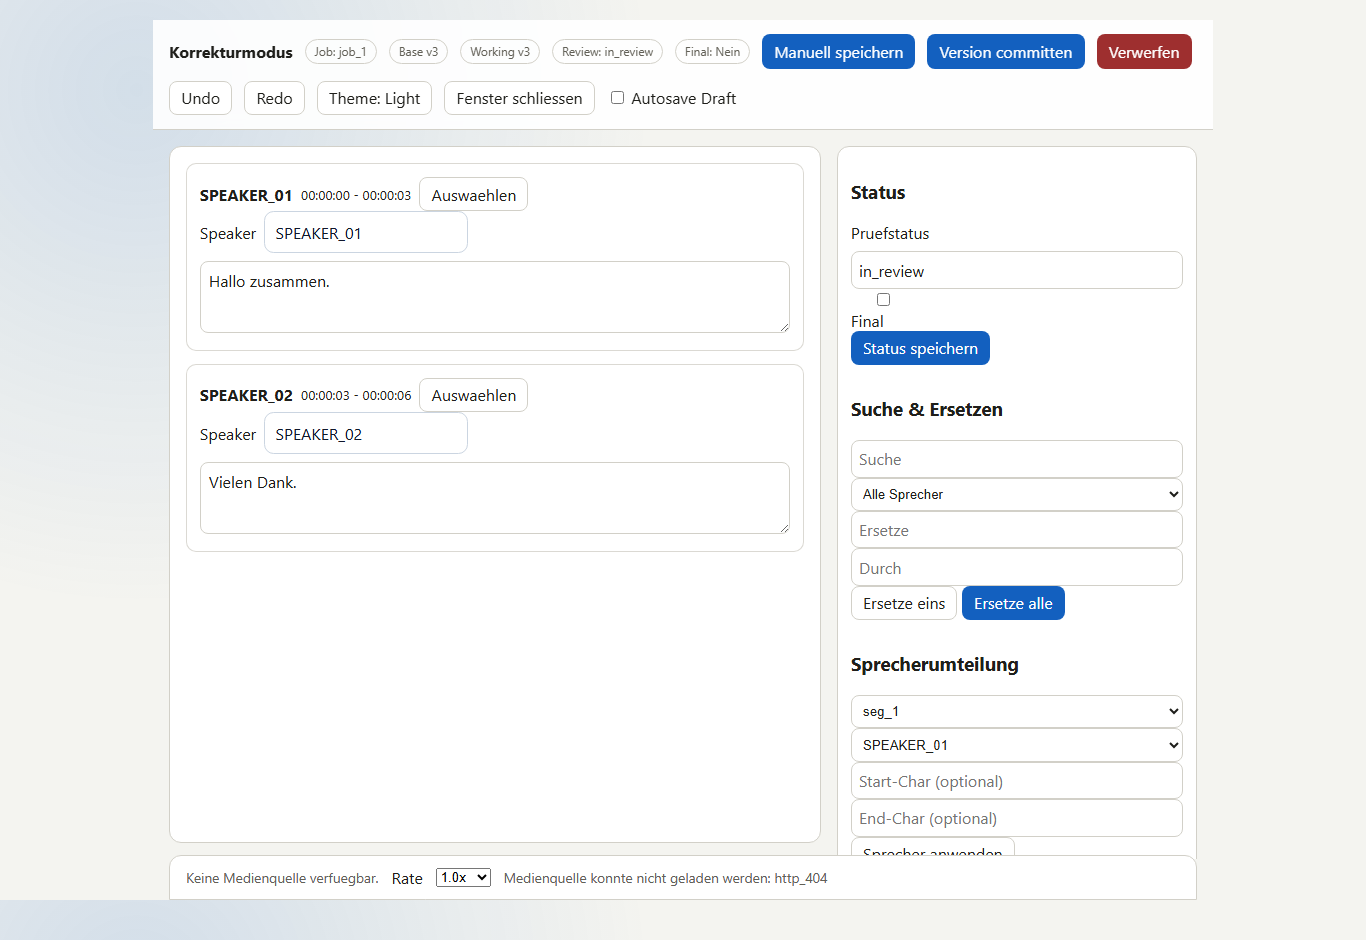
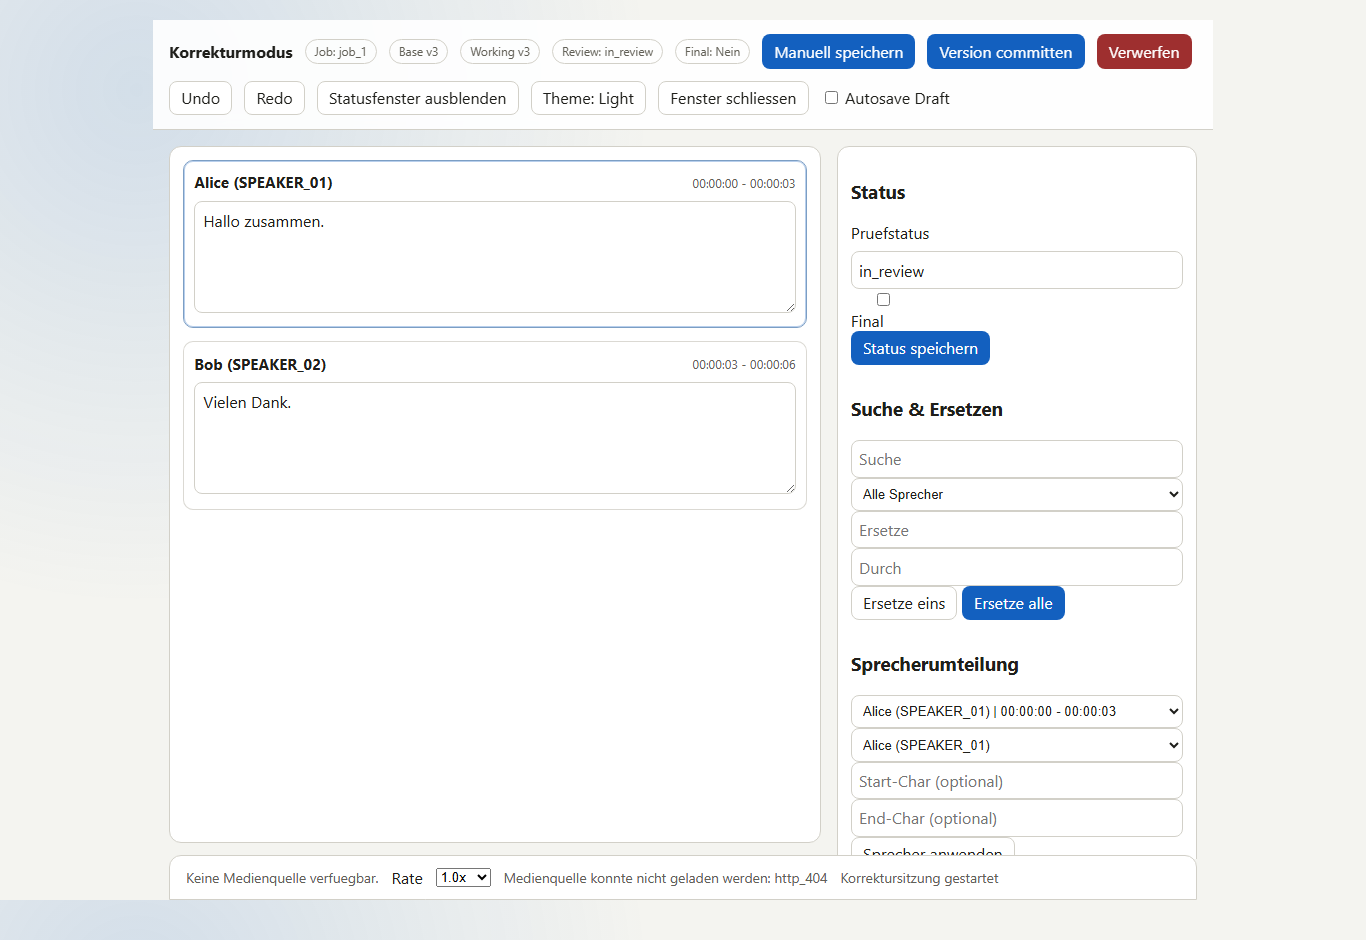
feat: optimiere korrektur-editor layout und alias-anzeige

diff --git a/frontend/correction_workspace.js b/frontend/correction_workspace.js
@@ -7,8 +7,14 @@ import {
   normalizeSegments,
 } from './correction_utils.js';
 import { consumeCorrectionHandoff } from './correction_handoff.js';
+import {
+  buildSpeakerDisplayLabel,
+  buildSpeakerOptionEntries,
+  parseSidebarVisibility,
+} from './correction_workspace_viewmodel.js';
 
 const THEME_STORAGE_KEY = 'evodox-theme';
+const SIDEBAR_VISIBILITY_STORAGE_KEY = 'evodox-correction-sidebar-visible';
 
 const state = {
   token: '',
@@ -36,6 +42,7 @@ const state = {
   closePromptVisible: false,
   mediaSource: null,
   mediaLoadError: '',
+  sidebarVisible: loadPersistedSidebarVisibility(),
 };
 
 function getBootstrap() {
@@ -72,10 +79,10 @@ async function callApi(path, options = {}) {
 
 function setStatus(message) {
   state.statusMessage = message;
-  const node = document.getElementById('cw-status-message');
-  if (node) {
-    node.textContent = message;
-  }
+  const sidebarNode = document.getElementById('cw-status-message');
+  if (sidebarNode) sidebarNode.textContent = message;
+  const footerNode = document.getElementById('cw-global-status');
+  if (footerNode) footerNode.textContent = message;
 }
 
 function setTheme(theme) {
@@ -83,6 +90,22 @@ function setTheme(theme) {
   document.body.dataset.theme = resolved;
   try {
     localStorage.setItem(THEME_STORAGE_KEY, resolved);
+  } catch {
+    // ignore persistence errors
+  }
+}
+
+function loadPersistedSidebarVisibility() {
+  try {
+    return parseSidebarVisibility(localStorage.getItem(SIDEBAR_VISIBILITY_STORAGE_KEY));
+  } catch {
+    return true;
+  }
+}
+
+function persistSidebarVisibility(visible) {
+  try {
+    localStorage.setItem(SIDEBAR_VISIBILITY_STORAGE_KEY, visible ? '1' : '0');
   } catch {
     // ignore persistence errors
   }
@@ -101,10 +124,10 @@ function getMediaElement() {
 }
 
 function getSpeakerOptions() {
-  const values = new Set();
-  state.segments.forEach((segment) => values.add(String(segment.speaker ?? 'UNKNOWN')));
-  Object.keys(state.speakerLabels || {}).forEach((speaker) => values.add(speaker));
-  return [...values];
+  return buildSpeakerOptionEntries({
+    segments: state.segments,
+    speakerLabels: state.speakerLabels,
+  });
 }
 
 function renderOperationLog() {
@@ -127,17 +150,17 @@ function escapeHtml(value) {
 function renderEditorBlocks() {
   return state.segments.map((segment, index) => {
     const activeClass = index === state.activeSegmentIndex ? 'active' : '';
+    const selectedClass = String(segment.segment_id) === String(state.selectedSegmentId) ? 'selected' : '';
+    const speakerLabel = buildSpeakerDisplayLabel({
+      speakerKey: segment.speaker,
+      speakerLabels: state.speakerLabels,
+    });
     return `
-      <article class="cw-block ${activeClass}" data-segment-id="${escapeHtml(segment.segment_id)}">
-        <div class="cw-row">
-          <strong>${escapeHtml(segment.speaker)}</strong>
-          <small>${escapeHtml(formatTimestamp(segment.start))} - ${escapeHtml(formatTimestamp(segment.end))}</small>
-          <button type="button" data-select-segment="${escapeHtml(segment.segment_id)}">Auswaehlen</button>
-        </div>
-        <div class="cw-row">
-          <label>Speaker</label>
-          <input data-speaker-input="${escapeHtml(segment.segment_id)}" value="${escapeHtml(segment.speaker)}" />
-        </div>
+      <article class="cw-block ${activeClass} ${selectedClass}" data-segment-id="${escapeHtml(segment.segment_id)}">
+        <header class="cw-block-header">
+          <strong class="cw-block-speaker">${escapeHtml(speakerLabel)}</strong>
+          <small class="cw-block-time">${escapeHtml(formatTimestamp(segment.start))} - ${escapeHtml(formatTimestamp(segment.end))}</small>
+        </header>
         <textarea data-text-input="${escapeHtml(segment.segment_id)}">${escapeHtml(segment.text)}</textarea>
       </article>
     `;
@@ -148,10 +171,12 @@ function render() {
   const app = document.getElementById('correction-app');
   if (!app) return;
   const speakerOptions = getSpeakerOptions()
-    .map((speaker) => `<option value="${escapeHtml(speaker)}">${escapeHtml(speaker)}</option>`)
+    .map((entry) => `<option value="${escapeHtml(entry.key)}">${escapeHtml(entry.label)}</option>`)
     .join('');
   const theme = document.body.dataset.theme === 'dark' ? 'dark' : 'light';
   const mediaNode = renderMediaNode();
+  const sidebarToggleLabel = state.sidebarVisible ? 'Statusfenster ausblenden' : 'Statusfenster einblenden';
+  const layoutClass = state.sidebarVisible ? 'cw-layout' : 'cw-layout cw-layout--sidebar-hidden';
 
   app.innerHTML = `
     <section class="cw-root">
@@ -167,14 +192,16 @@ function render() {
         <button id="cw-discard" class="danger">Verwerfen</button>
         <button id="cw-undo">Undo</button>
         <button id="cw-redo">Redo</button>
+        <button id="cw-sidebar-toggle">${sidebarToggleLabel}</button>
         <button id="cw-theme-toggle">Theme: ${theme === 'dark' ? 'Dark' : 'Light'}</button>
         <button id="cw-close">Fenster schliessen</button>
         <label>
           <input id="cw-autosave" type="checkbox" ${state.autosaveEnabled ? 'checked' : ''} /> Autosave Draft
         </label>
       </header>
-      <section class="cw-layout">
+      <section class="${layoutClass}">
         <section class="cw-editor" id="cw-editor">${renderEditorBlocks()}</section>
+        ${state.sidebarVisible ? `
         <aside class="cw-sidebar">
           <section>
             <h3>Status</h3>
@@ -206,7 +233,14 @@ function render() {
           <section>
             <h3>Sprecherumteilung</h3>
             <select id="cw-reassign-segment">
-              ${state.segments.map((segment) => `<option value="${escapeHtml(segment.segment_id)}">${escapeHtml(segment.segment_id)}</option>`).join('')}
+              ${state.segments.map((segment) => {
+                const speakerLabel = buildSpeakerDisplayLabel({
+                  speakerKey: segment.speaker,
+                  speakerLabels: state.speakerLabels,
+                });
+                const timeRange = `${formatTimestamp(segment.start)} - ${formatTimestamp(segment.end)}`;
+                return `<option value="${escapeHtml(segment.segment_id)}">${escapeHtml(`${speakerLabel} | ${timeRange}`)}</option>`;
+              }).join('')}
             </select>
             <select id="cw-reassign-speaker">
               ${speakerOptions}
@@ -223,6 +257,7 @@ function render() {
 
           <p id="cw-status-message" class="cw-status">${escapeHtml(state.statusMessage)}</p>
         </aside>
+        ` : ''}
       </section>
       <footer class="cw-audio">
         ${mediaNode}
@@ -235,6 +270,7 @@ function render() {
           <option value="2">2.0x</option>
         </select>
         <span class="cw-status">${escapeHtml(state.mediaLoadError || 'Ursprungsdatei automatisch geladen.')}</span>
+        <span id="cw-global-status" class="cw-status">${escapeHtml(state.statusMessage)}</span>
       </footer>
       ${state.closePromptVisible ? `
       <section class="cw-modal-backdrop" role="dialog" aria-modal="true" aria-label="Ungespeicherte Aenderungen">
@@ -274,9 +310,7 @@ function collectSegmentsFromDom() {
   const updated = normalizeSegments(state.segments);
   updated.forEach((segment) => {
     const textNode = document.querySelector(`[data-text-input="${CSS.escape(String(segment.segment_id))}"]`);
-    const speakerNode = document.querySelector(`[data-speaker-input="${CSS.escape(String(segment.segment_id))}"]`);
     if (textNode) segment.text = String(textNode.value ?? '');
-    if (speakerNode) segment.speaker = String(speakerNode.value ?? '').trim() || 'UNKNOWN';
   });
   return mergeConsecutiveSpeakerBlocks(updated);
 }
@@ -337,18 +371,29 @@ function patchStateFromSession(payload) {
 function bindInteractions() {
   const editor = document.getElementById('cw-editor');
   if (editor) {
-    editor.querySelectorAll('[data-text-input], [data-speaker-input]').forEach((node) => {
+    editor.querySelectorAll('[data-text-input]').forEach((node) => {
       node.addEventListener('input', () => {
         scheduleAutosave();
       });
     });
-    editor.querySelectorAll('[data-select-segment]').forEach((button) => {
-      button.addEventListener('click', (event) => {
-        state.selectedSegmentId = String(event.currentTarget.dataset.selectSegment || '');
+    editor.querySelectorAll('.cw-block').forEach((blockNode) => {
+      blockNode.addEventListener('click', () => {
+        state.selectedSegmentId = String(blockNode.dataset.segmentId || '');
+        editor.querySelectorAll('.cw-block.selected').forEach((node) => node.classList.remove('selected'));
+        blockNode.classList.add('selected');
         const targetSelect = document.getElementById('cw-reassign-segment');
         if (targetSelect) targetSelect.value = state.selectedSegmentId;
       });
     });
+  }
+
+  const sidebarToggle = document.getElementById('cw-sidebar-toggle');
+  if (sidebarToggle) {
+    sidebarToggle.onclick = () => {
+      state.sidebarVisible = !state.sidebarVisible;
+      persistSidebarVisibility(state.sidebarVisible);
+      render();
+    };
   }
 
   const autosaveNode = document.getElementById('cw-autosave');
@@ -634,8 +679,18 @@ function bindInteractions() {
   }
 
   const selectedSegmentNode = document.getElementById('cw-reassign-segment');
-  if (selectedSegmentNode && state.selectedSegmentId) {
-    selectedSegmentNode.value = String(state.selectedSegmentId);
+  if (selectedSegmentNode) {
+    if (state.selectedSegmentId) {
+      selectedSegmentNode.value = String(state.selectedSegmentId);
+    }
+    selectedSegmentNode.onchange = () => {
+      state.selectedSegmentId = String(selectedSegmentNode.value || '');
+      if (editor) {
+        editor.querySelectorAll('.cw-block.selected').forEach((node) => node.classList.remove('selected'));
+        const active = editor.querySelector(`[data-segment-id="${CSS.escape(state.selectedSegmentId)}"]`);
+        if (active) active.classList.add('selected');
+      }
+    };
   }
 }
 

diff --git a/frontend/correction_workspace.css b/frontend/correction_workspace.css
@@ -61,11 +61,15 @@ body {
 
 .cw-layout {
   display: grid;
-  grid-template-columns: minmax(0, 1fr) 360px;
+  grid-template-columns: minmax(0, 1fr) minmax(300px, 360px);
   gap: 1rem;
   padding: 1rem;
   min-height: 0;
   overflow: hidden;
+}
+
+.cw-layout--sidebar-hidden {
+  grid-template-columns: minmax(0, 1fr);
 }
 
 .cw-editor,
@@ -80,13 +84,13 @@ body {
   min-height: 0;
   height: 100%;
   overflow: auto;
-  padding: 1rem;
+  padding: 0.8rem;
 }
 
 .cw-block {
   border: 1px solid color-mix(in srgb, var(--cw-border) 80%, transparent);
   border-radius: 10px;
-  padding: 0.8rem;
+  padding: 0.55rem 0.65rem 0.65rem;
   margin-bottom: 0.8rem;
   background: color-mix(in srgb, var(--cw-surface) 94%, transparent);
 }
@@ -95,11 +99,36 @@ body {
   outline: 2px solid color-mix(in srgb, var(--cw-accent) 65%, transparent);
 }
 
+.cw-block.selected {
+  border-color: color-mix(in srgb, var(--cw-accent) 45%, var(--cw-border));
+  box-shadow: inset 0 0 0 1px color-mix(in srgb, var(--cw-accent) 30%, transparent);
+}
+
+.cw-block-header {
+  display: flex;
+  align-items: center;
+  gap: 0.5rem;
+  min-height: 1.6rem;
+}
+
+.cw-block-speaker {
+  font-size: 0.95rem;
+  line-height: 1.2;
+  font-weight: 700;
+}
+
+.cw-block-time {
+  margin-left: auto;
+  color: var(--cw-muted);
+  font-size: 0.78rem;
+  white-space: nowrap;
+}
+
 .cw-block textarea {
   width: 100%;
-  min-height: 72px;
+  min-height: 112px;
   resize: vertical;
-  margin-top: 0.5rem;
+  margin-top: 0.35rem;
   border: 1px solid var(--cw-border);
   border-radius: 8px;
   background: transparent;

diff --git a/frontend/tests/correction_workspace_viewmodel.test.js b/frontend/tests/correction_workspace_viewmodel.test.js
@@ -1,0 +1,52 @@
+import test from 'node:test';
+import assert from 'node:assert/strict';
+
+import {
+  buildSpeakerDisplayLabel,
+  buildSpeakerOptionEntries,
+  parseSidebarVisibility,
+} from '../correction_workspace_viewmodel.js';
+
+test('buildSpeakerDisplayLabel renders alias plus speaker key', () => {
+  const label = buildSpeakerDisplayLabel({
+    speakerKey: 'SPEAKER_01',
+    speakerLabels: {
+      SPEAKER_01: 'Patrick',
+    },
+  });
+  assert.equal(label, 'Patrick (SPEAKER_01)');
+});
+
+test('buildSpeakerDisplayLabel falls back to speaker key when alias missing', () => {
+  const label = buildSpeakerDisplayLabel({
+    speakerKey: 'SPEAKER_02',
+    speakerLabels: {},
+  });
+  assert.equal(label, 'SPEAKER_02');
+});
+
+test('buildSpeakerOptionEntries keeps unique speaker keys and uses display labels', () => {
+  const entries = buildSpeakerOptionEntries({
+    segments: [
+      { speaker: 'SPEAKER_01' },
+      { speaker: 'SPEAKER_01' },
+      { speaker: 'SPEAKER_02' },
+    ],
+    speakerLabels: {
+      SPEAKER_01: 'Patrick',
+      SPEAKER_03: 'Angela',
+    },
+  });
+
+  assert.deepEqual(entries, [
+    { key: 'SPEAKER_01', label: 'Patrick (SPEAKER_01)' },
+    { key: 'SPEAKER_02', label: 'SPEAKER_02' },
+    { key: 'SPEAKER_03', label: 'Angela (SPEAKER_03)' },
+  ]);
+});
+
+test('parseSidebarVisibility supports persisted toggle values', () => {
+  assert.equal(parseSidebarVisibility('1'), true);
+  assert.equal(parseSidebarVisibility('0'), false);
+  assert.equal(parseSidebarVisibility(null), true);
+});

diff --git a/frontend/correction_workspace_viewmodel.js b/frontend/correction_workspace_viewmodel.js
@@ -1,0 +1,27 @@
+export function buildSpeakerDisplayLabel({ speakerKey, speakerLabels = {} }) {
+  const key = String(speakerKey ?? 'UNKNOWN').trim() || 'UNKNOWN';
+  const alias = String(speakerLabels?.[key] ?? '').trim();
+  if (!alias || alias === key) return key;
+  return `${alias} (${key})`;
+}
+
+export function buildSpeakerOptionEntries({ segments = [], speakerLabels = {} }) {
+  const keys = new Set();
+  for (const segment of segments) {
+    const key = String(segment?.speaker ?? 'UNKNOWN').trim() || 'UNKNOWN';
+    keys.add(key);
+  }
+  Object.keys(speakerLabels || {}).forEach((key) => {
+    const normalized = String(key ?? '').trim();
+    if (normalized) keys.add(normalized);
+  });
+  return [...keys].map((key) => ({
+    key,
+    label: buildSpeakerDisplayLabel({ speakerKey: key, speakerLabels }),
+  }));
+}
+
+export function parseSidebarVisibility(value) {
+  if (value === '0') return false;
+  return true;
+}
